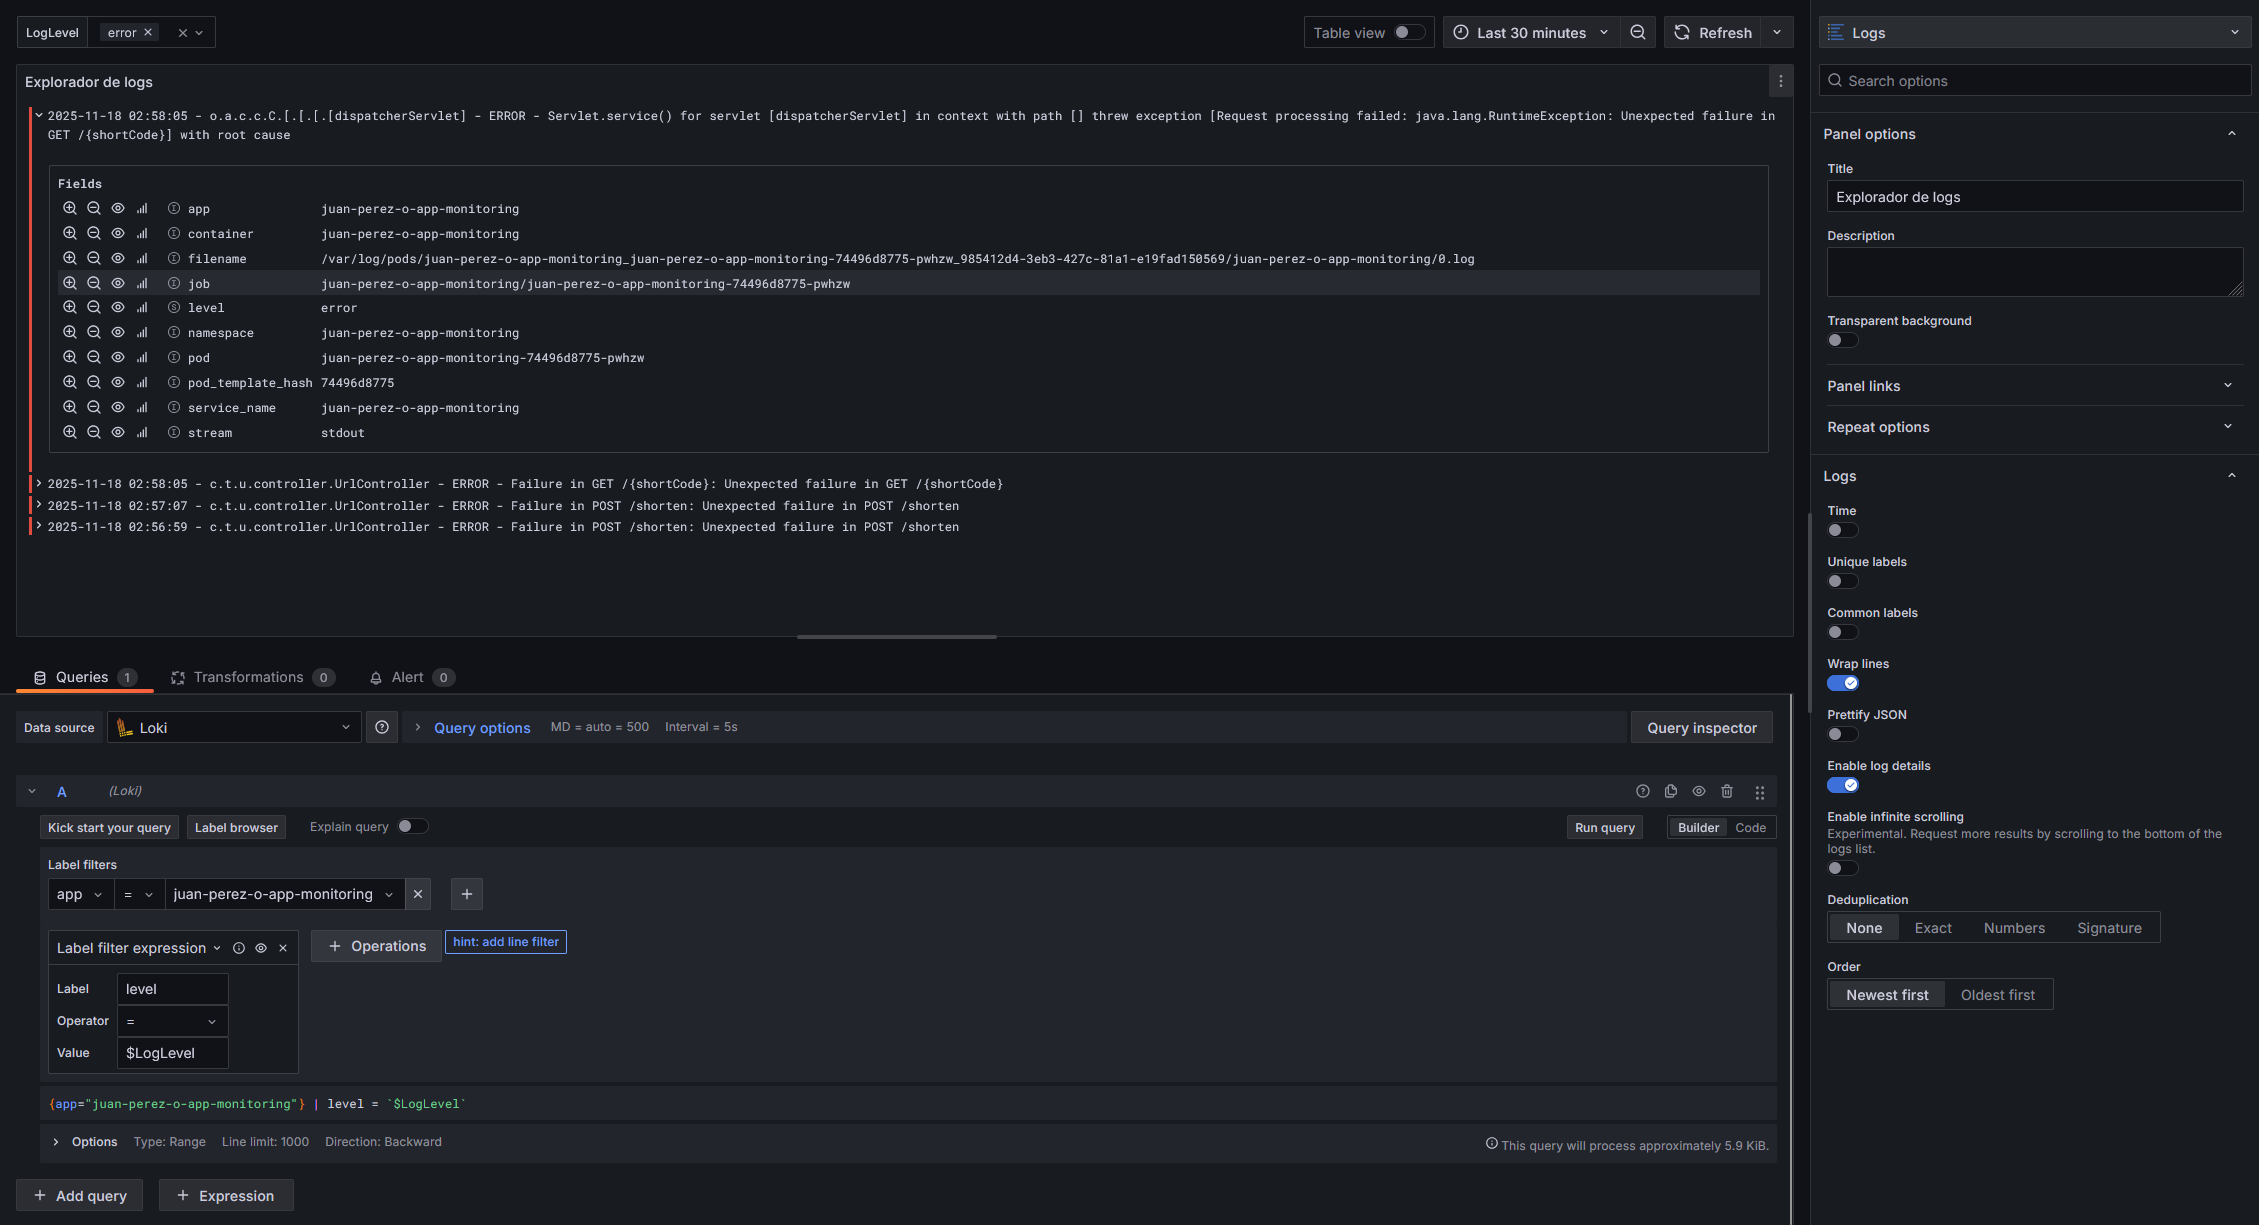
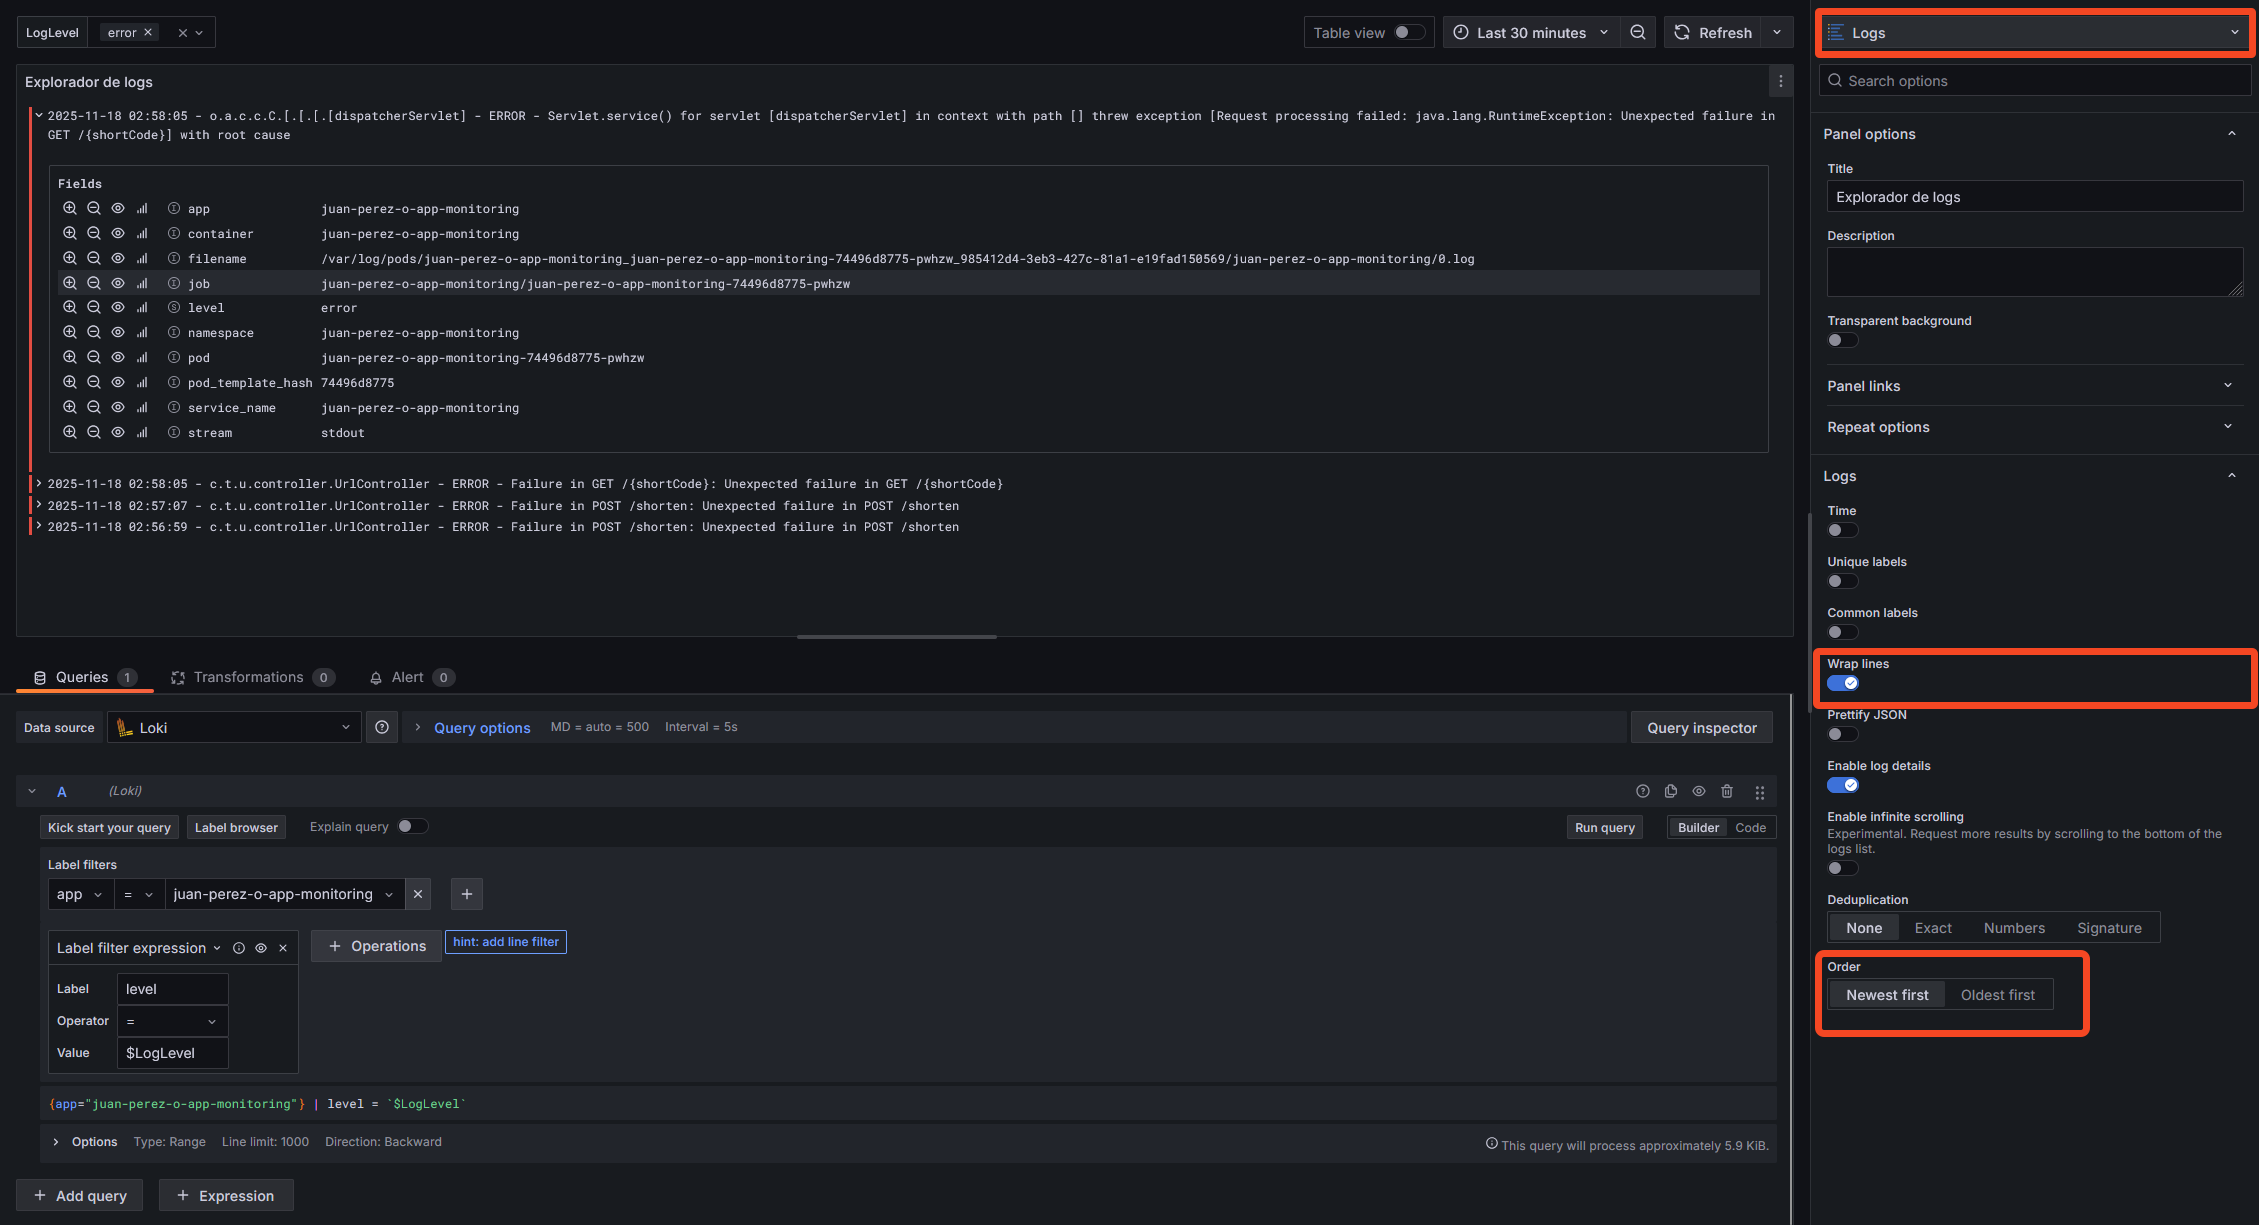
update lab

diff --git a/docs/4-propuesta-metrica.md b/docs/4-propuesta-metrica.md
@@ -78,7 +78,8 @@ Cuando termines, despliegua la aplicación. Para esto debes:
 ![alt text](./resources/metrica-propia/release-2.png)
 ![alt text](./resources/metrica-propia/release-3.png)
 
-La creación del tag activará el proceso de despliegue, debes estar atento en backstage a cuanto se actualice el tiempo de sincronización (pase a ser reciente) y esté nuevamente en estado   `Synced` y `Healthy`, verifica que tu métrica aparece en: `http://{app-DNS}/actuator/prometheus`.
+La creación del tag activará el proceso de despliegue (puedes ver la primera parte en GH Actions y el estado de tu aplicación en tu app de backstage ), debes estar atento en backstage a la seccion `ArgoCD Overview` cuando se actualice el tiempo de sincronización (pase a ser reciente) y esté nuevamente en estado   `Synced` y `Healthy`, verifica que tu métrica aparece en: `http://{app-DNS}/actuator/prometheus`.
+
 ---
 
 ### 2.2.4 Define Cómo la Visualizarías en Grafana

diff --git a/docs/README.md b/docs/README.md
@@ -45,13 +45,6 @@ Adicionalmente, el profesor del laboratorio disponibiliza 3 componentes:
 
 Tanto Grafana como las aplicaciones de los estudiantes pueden accederse mediante un balanceador de carga que distribuye las peticiones a las aplicaciones correspondientes según el subdominio asignado.
 
-**Stack Tecnológico:**
-- **Aplicación:** Java Spring Boot (URL Shortener)
-- **Métricas:** Prometheus + Spring Boot Actuator
-- **Logs:** Loki + Promtail
-- **Visualización:** Grafana
-- **Infraestructura:** Kubernetes (AWS EKS) + ArgoCD + Github Actions
-
 ---
 
 ## Tips para desarrollar el laboratorio

diff --git a/docs/2-metricas-iniciales.md b/docs/2-metricas-iniciales.md
@@ -20,6 +20,14 @@
 Analizar las métricas expuestas por la aplicación Java y verificar su recolección en Prometheus.
 
 ---
+## Contexto
+
+La aplicacion que acabas de obtener, es una API REST que permite acortar URLs. Sus principales casos de uso son:
+
+1. Generar un código corto para una URL original.
+2. Redirigir a la URL original a partir de un código corto.
+3. Listar todas las URLs almacenadas en memoria.
+
 
 ## 📋 Instrucciones
 

diff --git a/docs/3-grafana-dashboard-base.md b/docs/3-grafana-dashboard-base.md
@@ -245,7 +245,7 @@ Esta variable permitirá filtrar dinámicamente el nivel de logs visualizado des
 {app="{nombre-de-tu-app}-monitoring"} | level =~ `$LogLevel`
 ```
 
-#### Interpretación de la consulta:**
+#### Interpretación de la consulta:
 
 Muestra todos los logs generados por el contenedor tu aplicacion, filtrando dinámicamente según el nivel seleccionado en $LogLevel.
 
